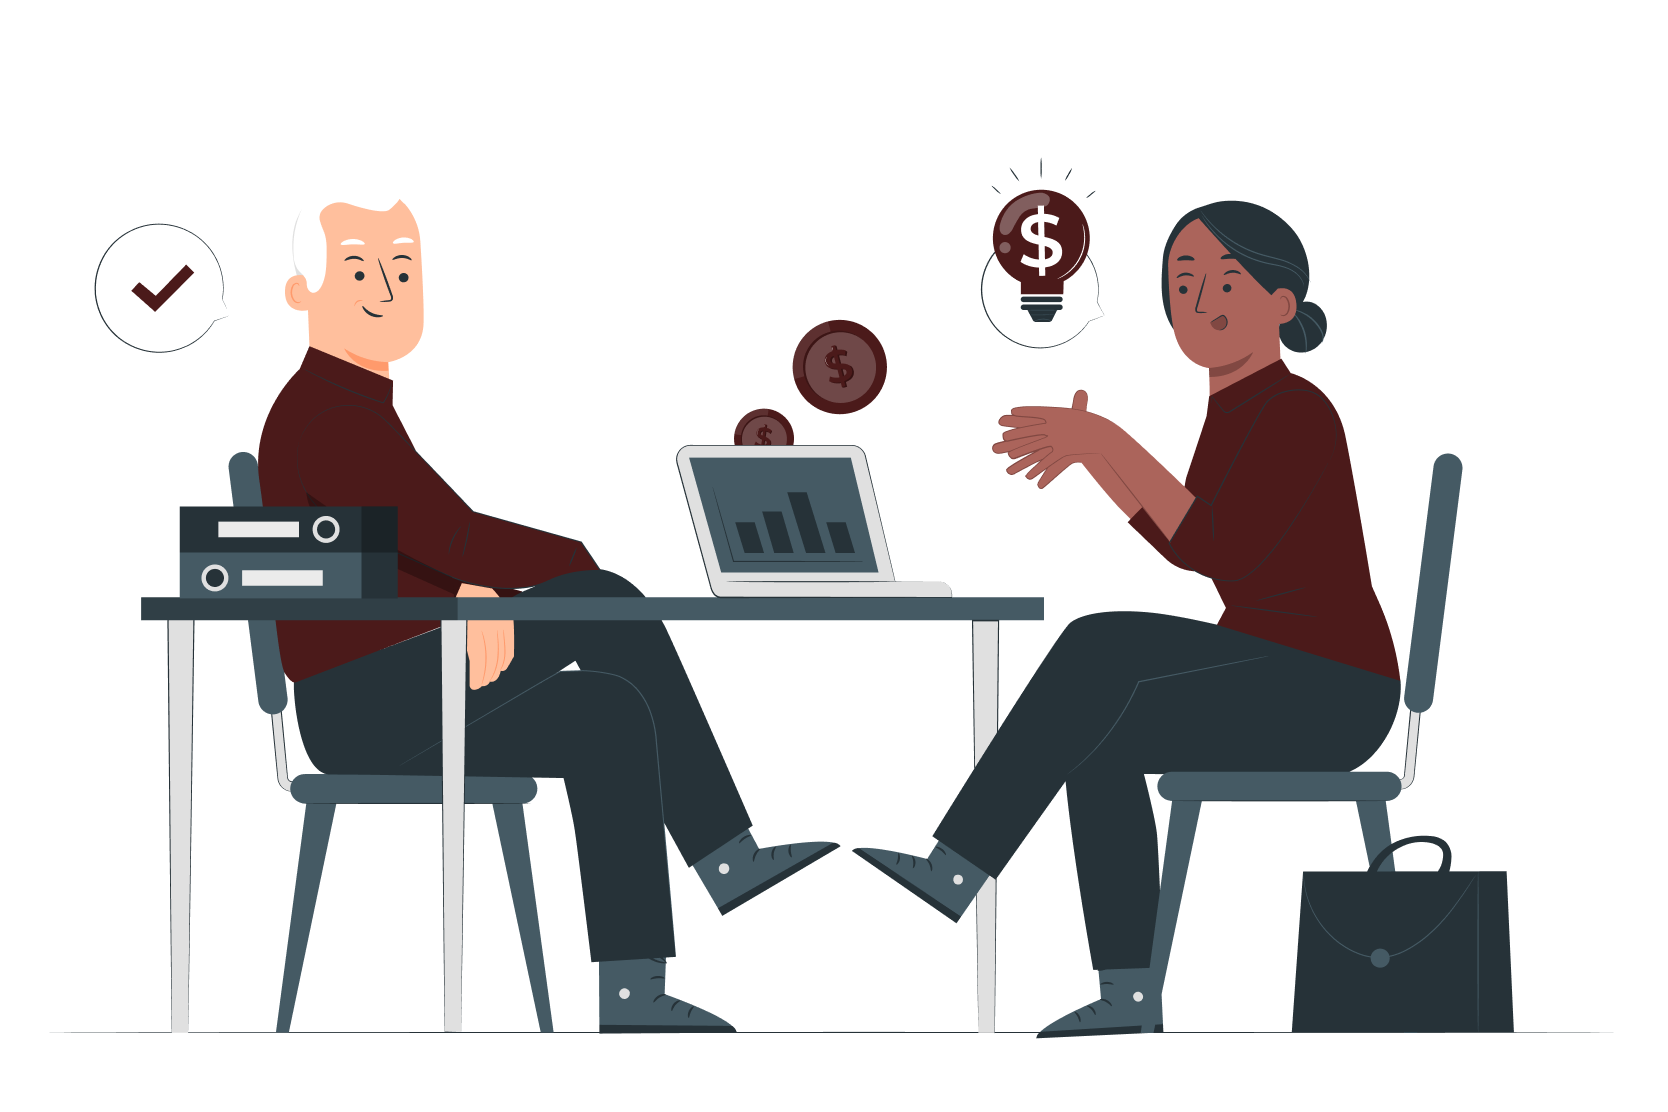
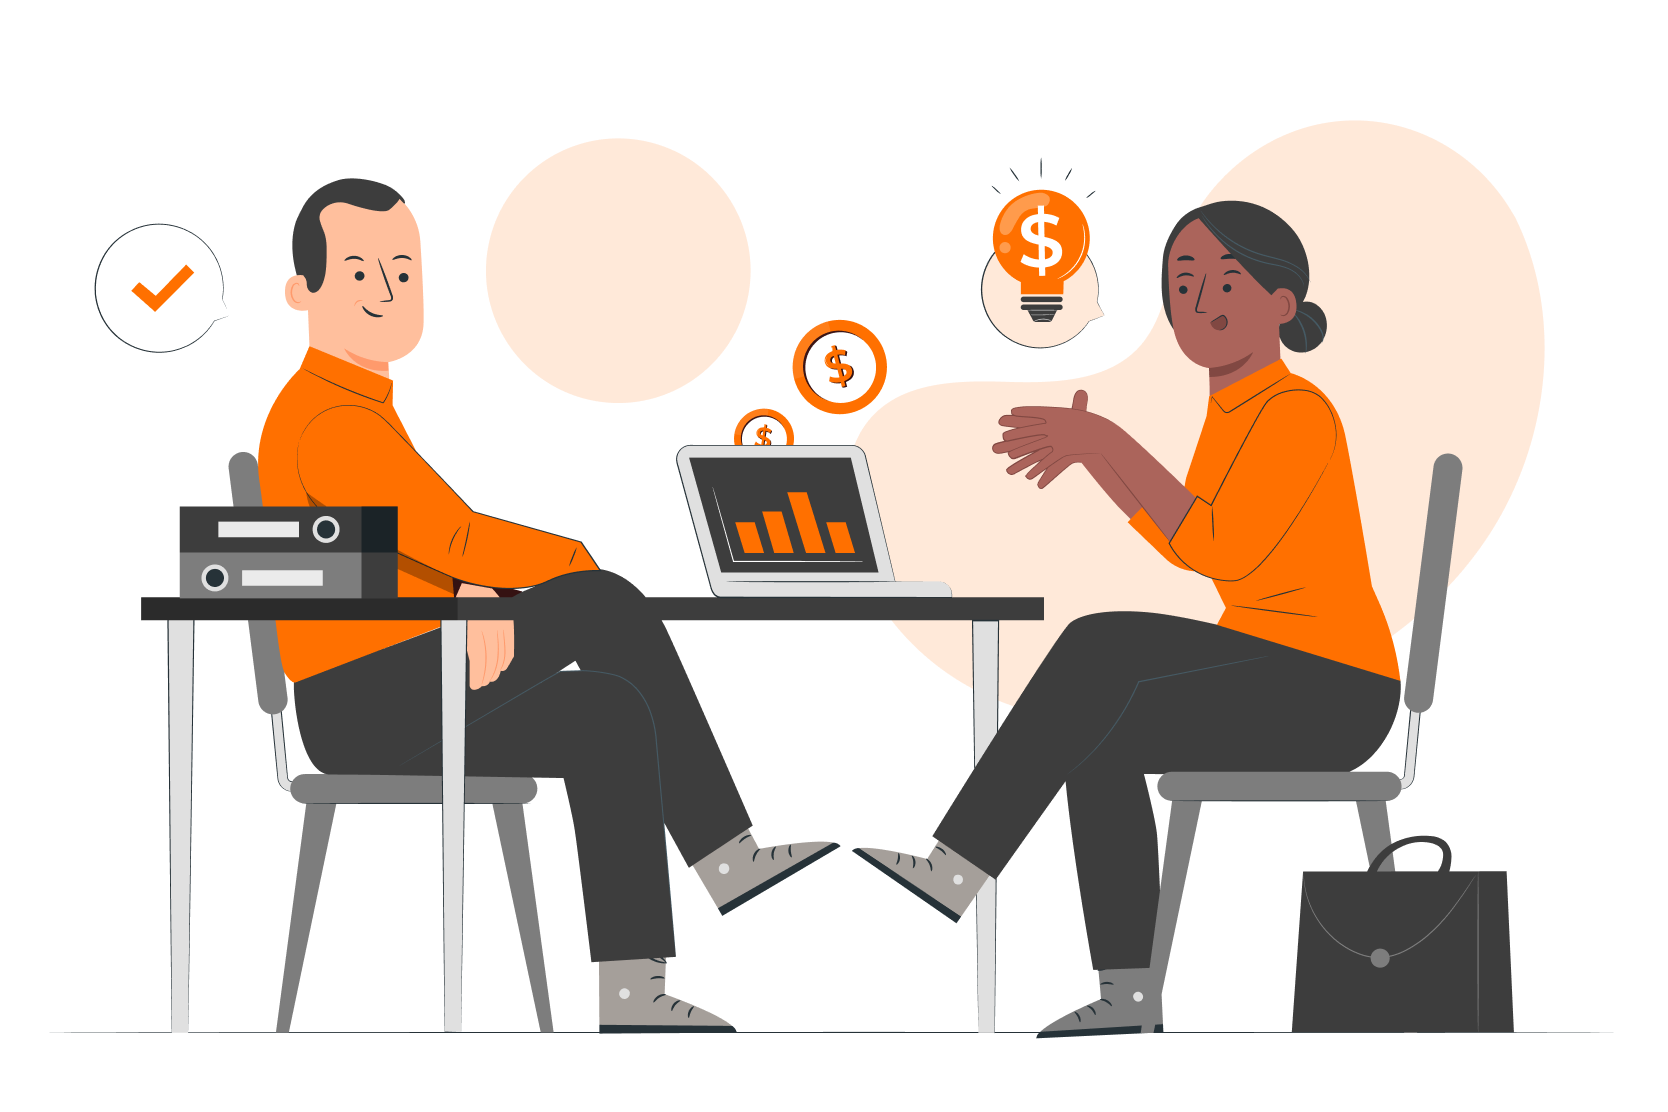
updated home page's hero section UI

diff --git a/client/src/pages/Home.tsx b/client/src/pages/Home.tsx
@@ -36,24 +36,25 @@ export default function Home() {
   return (
     <div className="bg-[#FFFDFD] overflow-x-hidden">
       {/* Hero Section */}
-      <section className="min-h-screen bg-[#fceeee] flex items-center">
-        <div className="max-w-7xl mx-auto w-full pt-[80px] px-4 md:px-6">
-          <div className="grid grid-cols-1 lg:grid-cols-2 gap-8 items-center">
+      <section className="min-h-screen bg-[#ffffff] flex items-center">
+        <div className=" mx-auto w-full pt-12">
+          <div className="grid grid-cols-1 lg:grid-cols-2 gap-24 items-center px-8">
             <motion.div
               initial={{ opacity: 0, x: -50 }}
               animate={{ opacity: 1, x: 0 }}
               transition={{ duration: 0.8 }}
             >
-              <h1 className="text-4xl sm:text-4xl lg:text-7xl font-bold text-[#2A2A2A] mb-4 sm:mb-6 leading-tight">
+              <h1 className="text-4xl sm:text-4xl lg:text-7xl font-bold text-[#2A2A2A] mb-4 sm:mb-4 leading-tight">
                 Trusted Recovery Partner Since 2009
               </h1>
+
               <p className="text-base sm:text-lg lg:text-xl text-[#2A2A2A] mb-6 font-light">
                 Recovering loans. Rebuilding trust. 15 years strong.
               </p>
 
               {/* Animated Counter */}
               <motion.div
-                className="bg-[#FFFDFD] p-6 rounded-2xl shadow-lg border border-[#F5C6C6] mb-6"
+                className="bg-[#FFFfff] p-6 rounded-2xl shadow-[0_3px_6px_1px_rgba(0,0,0,0.1)] mb-6"
                 initial={{ opacity: 0, y: 20 }}
                 animate={{ opacity: 1, y: 0 }}
                 transition={{ duration: 0.6, delay: 0.3 }}
@@ -61,16 +62,16 @@ export default function Home() {
                 <div className="text-center">
                   <div className="text-3xl md:text-5xl font-bold mb-2">
                     <AnimatedCounter
-                      targetValue={120}
+                      targetValue={300}
                       prefix="₹"
-                      suffix="+ Lakhs"
+                      suffix="+ Crores"
                       className="text-3xl md:text-5xl font-bold counter-animation"
                     />
                   </div>
                   <p className="text-[#2A2A2A] font-medium">Recovered Nationwide</p>
-                  <div className="w-full bg-[#BA0000] rounded-full h-2 mt-4">
+                  <div className="w-full bg-[#ffe9d9] rounded-full h-2 mt-4">
                     <motion.div
-                      className="bg-gradient-to-r from-[#F5C6C6] to-[#FFE7E7] h-2 rounded-full"
+                      className="bg-[#ff7000] h-2 rounded-full"
                       initial={{ width: 0 }}
                       animate={{ width: "85%" }}
                       transition={{ duration: 2, delay: 1 }}
@@ -84,7 +85,7 @@ export default function Home() {
                 animate={{ opacity: 1, y: 0 }}
                 transition={{ duration: 0.6, delay: 0.6 }}
               >
-                <Button className="bg-[#BA0000] text-[#FFE7E7] px-6 py-3 rounded-lg text-base sm:text-lg font-semibold hover:bg-[#4B1A1A]/90 transition-all duration-200">
+                <Button className="bg-[#ff7000] text-[#FFffff] px-6 py-3 rounded-lg text-base sm:text-lg font-semibold hover:bg-[#4B1A1A]/90 transition-all duration-200">
                   Recover with Us <ArrowRight className="ml-2" size={20} />
                 </Button>
               </motion.div>
@@ -102,7 +103,7 @@ export default function Home() {
                 className="w-full max-w-[900px] mx-auto h-auto rounded-2xl"
               />
               <motion.div
-                className="absolute bottom-[-1.5rem] right-[-1.5rem] p-4 sm:p-6 rounded-2xl shadow-lg text-[#BA0000] bg-white text-center w-28"
+                className="absolute bottom-[-1.5rem] right-[-0.5rem] p-4 sm:p-6 rounded-2xl shadow-lg text-[#ff7000] bg-white text-center w-28"
                 initial={{ opacity: 0, scale: 0 }}
                 animate={{ opacity: 1, scale: 1 }}
                 transition={{ duration: 0.5, delay: 1 }}

diff --git a/client/src/components/Navigation.tsx b/client/src/components/Navigation.tsx
@@ -19,18 +19,19 @@ export default function Navigation() {
   };
 
   return (
-    <nav className="fixed top-4 left-1/2 transform -translate-x-1/2 z-50 w-full max-w-4xl px-4">
-      <div className="floating-navbar bg-white rounded-2xl">
-        <div className="flex justify-between items-center px-6 py-2">
-          {/* Logo */}
-          <div className="flex-shrink-0">
-            <Link href="/">
-              <h2 className="text-xl font-bold text-[#4B1A1A] cursor-pointer">
+    <nav className="fixed top z-50 w-full">
+      <div className="bg-white shadow-lg">
+        <div className="flex justify-between items-center px-6 py-2.5">
+          <Link href="/" className="flex justify-between items-center">
+              <img
+                src="./assets/logo.png"
+                alt="Logo"
+                className="mr-3 w-8 h-8"
+              />
+              <h2 className="text-xl font-bold text-[#3d3d3d] cursor-pointer">
                 Aryas Agency
               </h2>
             </Link>
-          </div>
-
           {/* Desktop Navigation */}
           <div className="hidden md:flex items-center space-x-8">
             <div className="flex items-center space-x-6">
@@ -39,8 +40,8 @@ export default function Navigation() {
                   <span
                     className={`px-3 py-2 font-medium transition-colors duration-200 cursor-pointer rounded-lg ${
                       isActive(item.path)
-                        ? "text-[#4B1A1A] bg-[#F5C6C6]/30"
-                        : "text-[#2A2A2A] hover:text-[#4B1A1A] hover:bg-[#F5C6C6]/20"
+                        ? "text-[#000000] bg-[#Ffe9d9]"
+                        : "text-[#2A2A2A] hover:text-[#000000] hover:bg-[#Ffe9d9]"
                     }`}
                   >
                     {item.name}
@@ -51,7 +52,7 @@ export default function Navigation() {
 
             {/* Contact Button (now acts as a link) */}
             <Link href="/contact">
-              <Button className="bg-[#BA0000] text-[#fceeee] px-6 border-2 border-[#BA0000] py-2 rounded-lg hover:bg-[#FFE7E7] hover:text-[#BA0000] hover:border-[#BA0000] transition-colors duration-200">
+              <Button className="bg-[#ff7000] text-[#ffffff] px-6 border-2 border-[#ff7000] py-2 rounded-lg hover:bg-[#ffffff] hover:text-[#ff7000] hover:border-[#ff7000] transition-colors duration-200">
                 Contact
               </Button>
             </Link>

diff --git a/client/src/index.css b/client/src/index.css
@@ -74,7 +74,7 @@
   }
   
   .counter-animation {
-    background: linear-gradient(135deg, #BA0000 0%, #ff8686 100%);
+    background: linear-gradient(135deg, #ff7000 0%, #ff7000 100%);
     -webkit-background-clip: text;
     -webkit-text-fill-color: transparent;
     background-clip: text;
